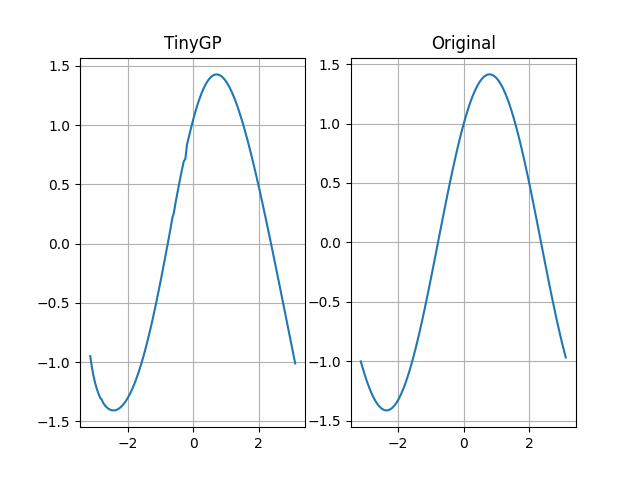
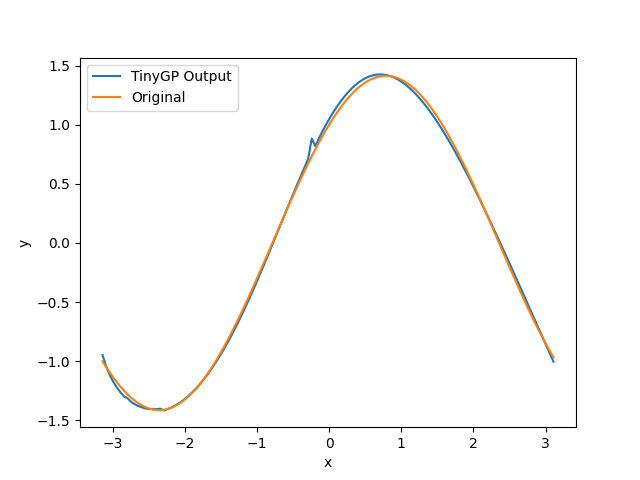
updated plots to be more readable

diff --git a/tinygp_approximations_plots/plot_tinygp_output.py b/tinygp_approximations_plots/plot_tinygp_output.py
@@ -80,15 +80,14 @@ def main():
                 Y = eval(equation)
                 Y_original = eval(original_equation)
 
-                fig, ax = plt.subplots(1, 2)
-                ax[0].plot(X[0], Y)
-                ax[0].set_title("TinyGP")
-                ax[0].grid()
-                ax[1].plot(X[0], Y_original)
-                ax[1].set_title("Original")
-                ax[1].grid()
+                plt.figure()
+                plt.plot(X[0], Y, label='TinyGP Output')
+                plt.plot(X[0], Y_original, label='Original')
+                plt.ylabel('y')
+                plt.xlabel('x')
+                plt.legend()
                 plt.savefig(f"{filename.replace(".txt", "").replace("examples", "plots")}.png")
-                plt.show()
+                # plt.show()
         elif n_vars == 2:
             if original_equation is None:
                 X[0], X[1] = np.meshgrid(X[0], X[1])
